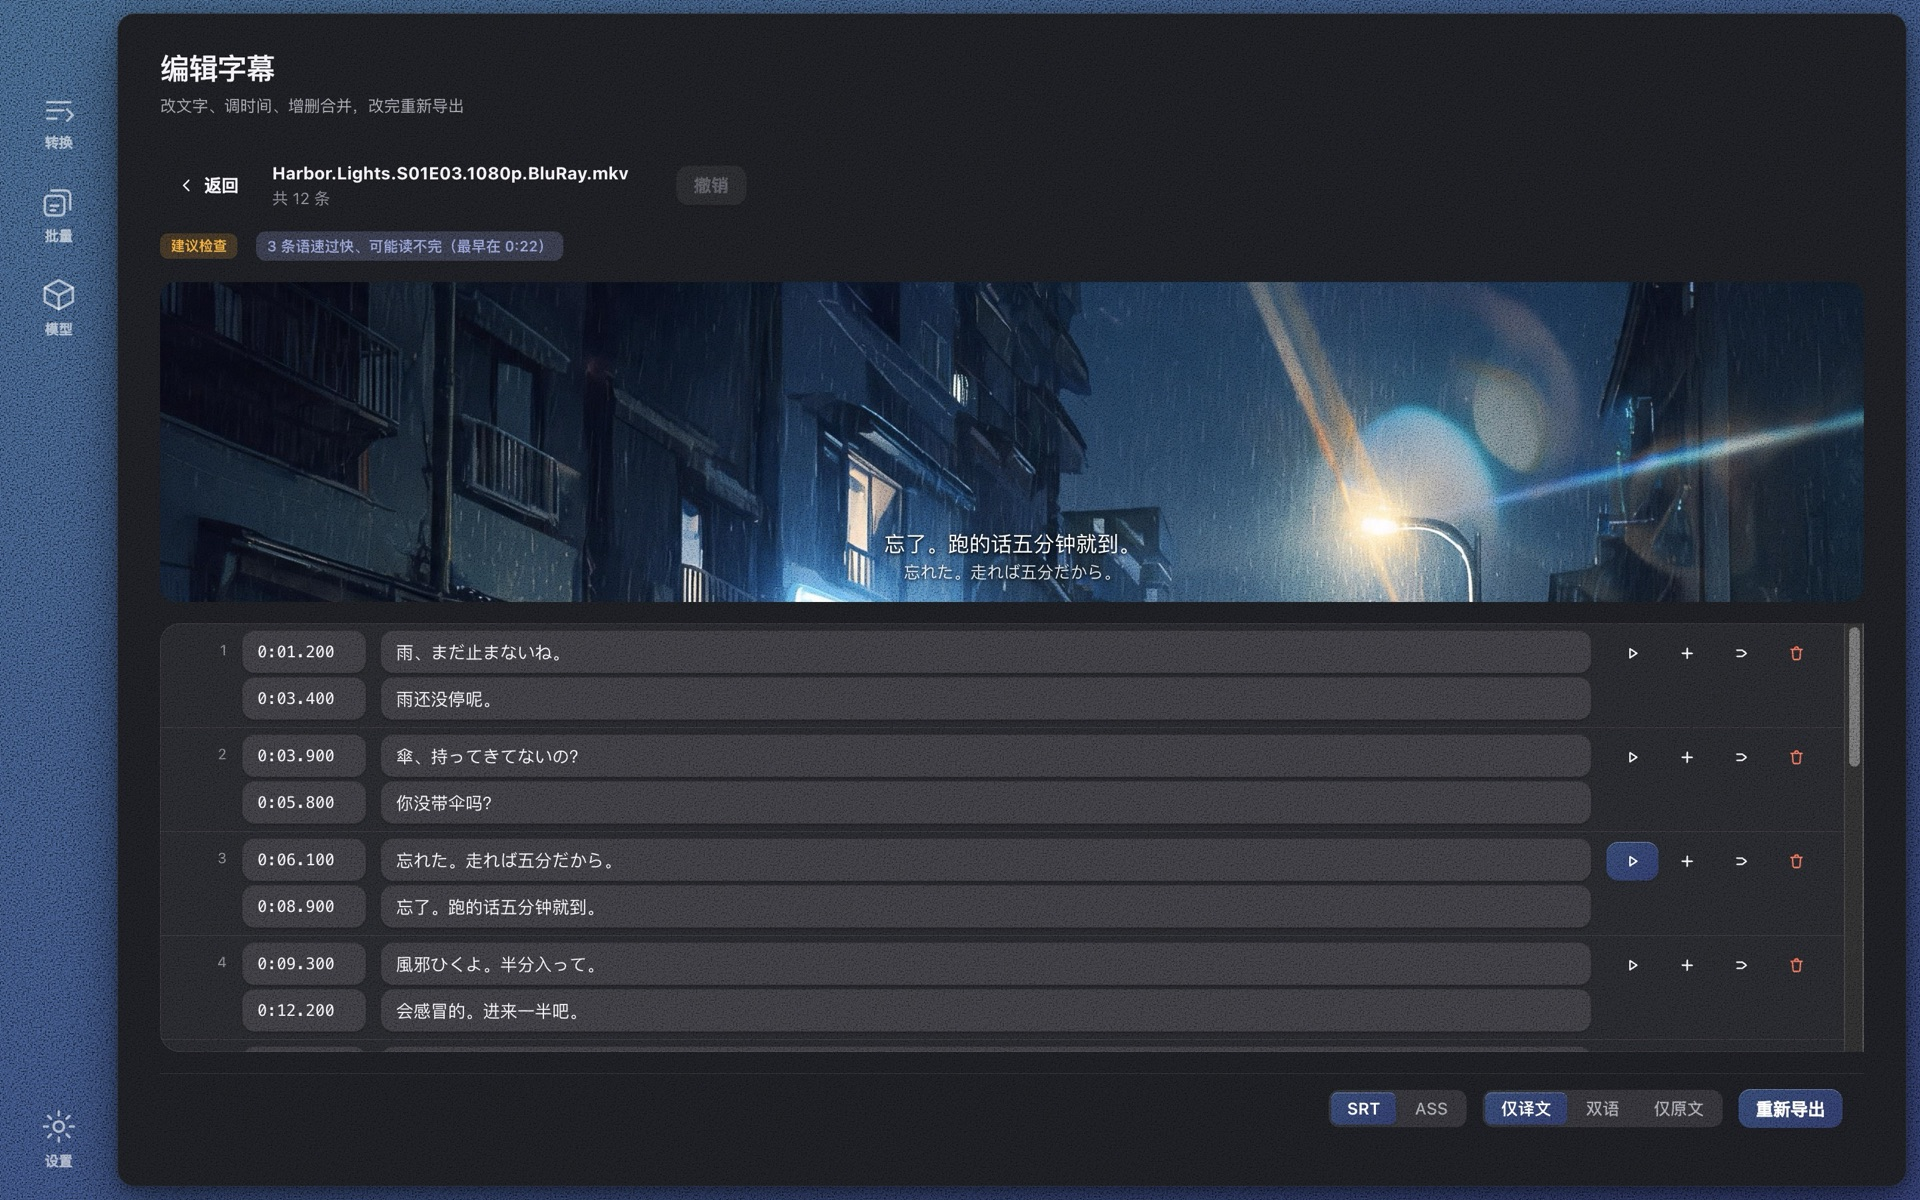
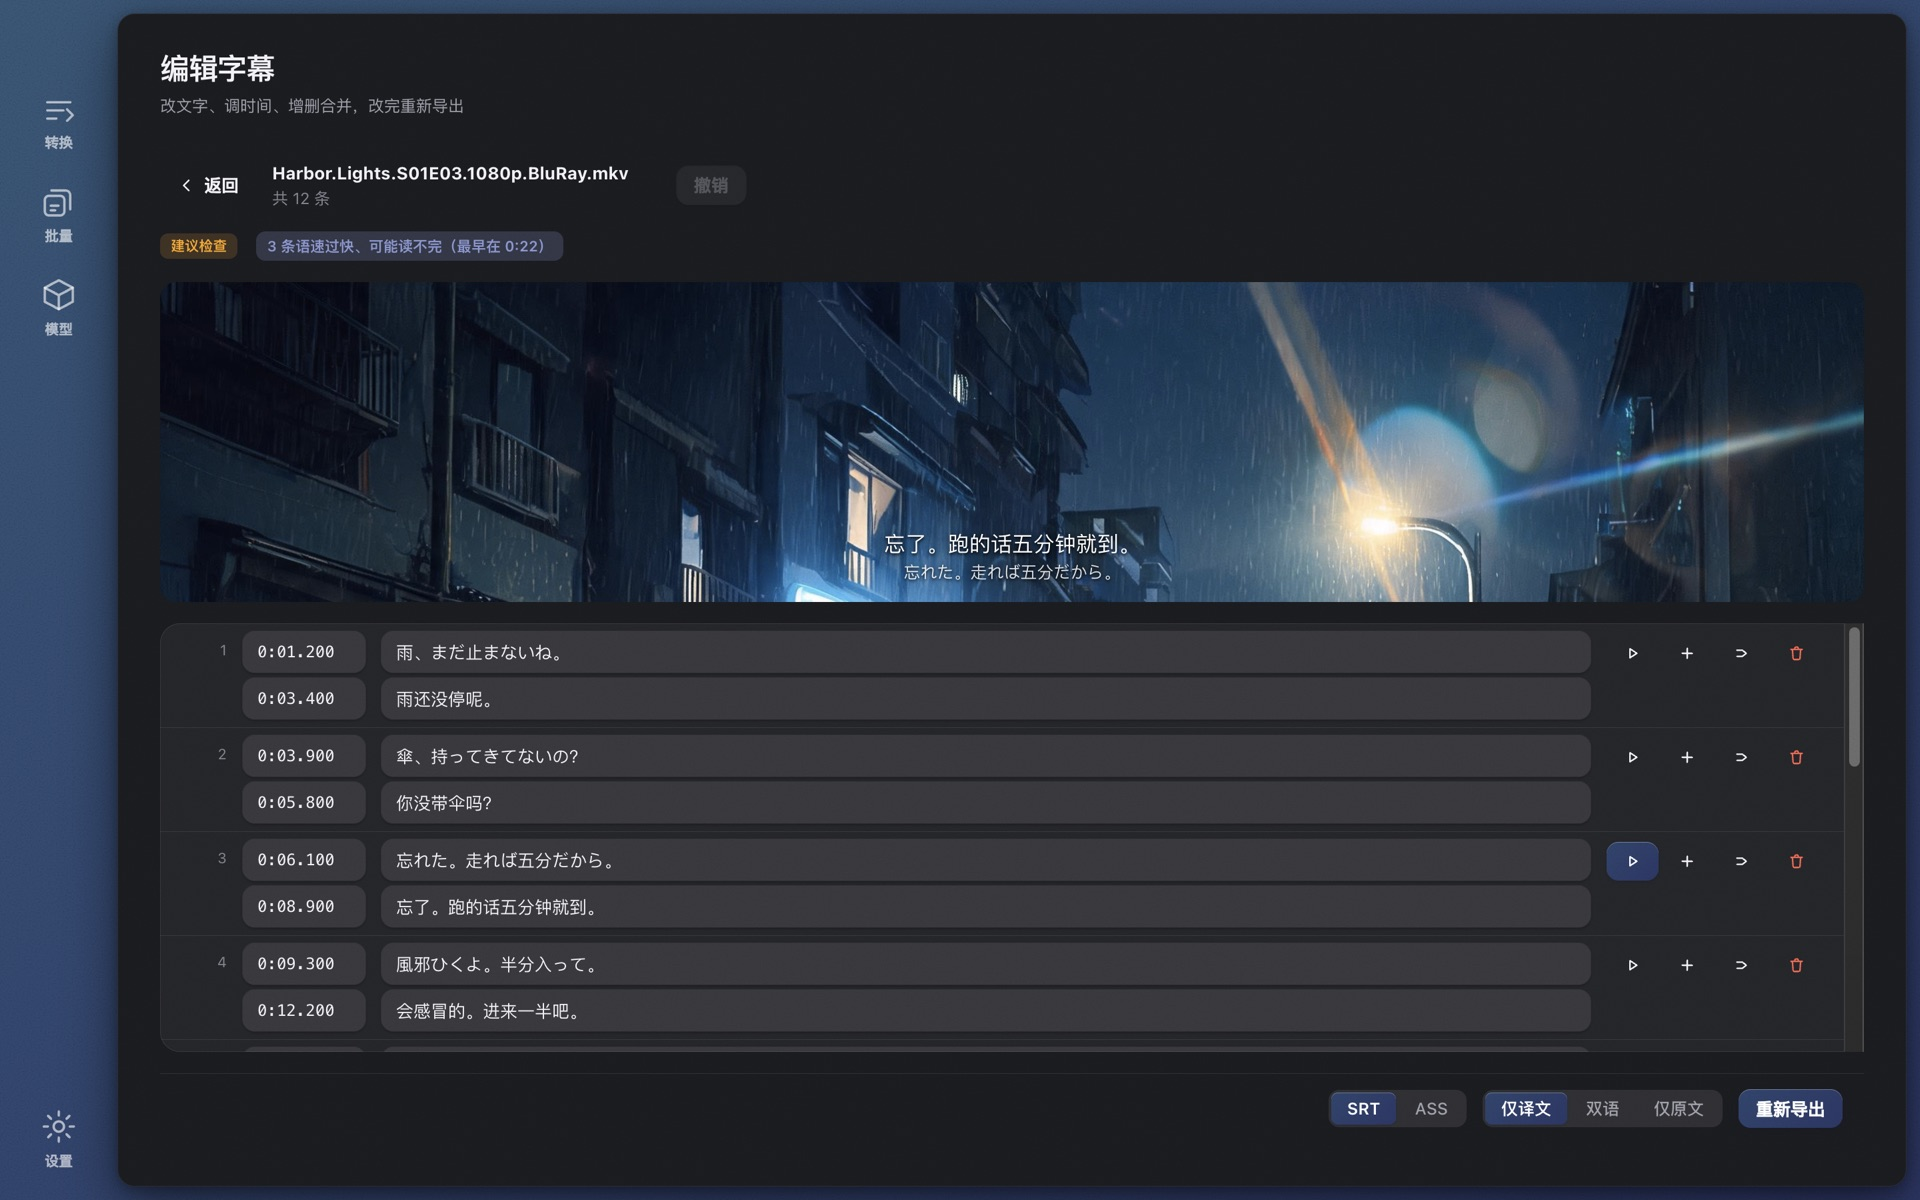
1.0.1：颗粒默认 0.1 并迁移旧默认；截图脚本支持 11 种语言与翻译模型页；截图不再入库

diff --git a/src/main/settings.ts b/src/main/settings.ts
@@ -14,7 +14,7 @@ import type {
   TranslationEngine
 } from '../shared/types'
 import type { Translate } from '../shared/i18n'
-import { DEFAULT_THEME, type ThemeSetting } from '../shared/palettes'
+import { DEFAULT_THEME, LEGACY_DEFAULT_GRAIN, type ThemeSetting } from '../shared/palettes'
 import { pickLocale, translatorFor } from '../shared/i18n'
 import { normalizeBaseUrl } from './core/translate/openaiCompatible'
 import { normalizeAnthropicBaseUrl } from './core/translate/anthropic'
@@ -49,6 +49,8 @@ function normalizeUrlFor(protocol: CloudProtocol, raw: string): string {
 interface StoredSettings {
   appearance: Appearance
   theme: ThemeSetting
+  /** 颗粒默认值的版本：1 = 0.5（1.0.0），2 = 0.1（1.0.1 起）。用来只迁移一次 */
+  grainDefaultRev?: number
   /** 'system' 表示跟随系统语言 */
   language: string
   selectedModel?: string
@@ -66,9 +68,12 @@ interface StoredSettings {
   legacy?: { baseUrl?: string; model?: string; apiKeyEnc?: string }
 }
 
+const GRAIN_DEFAULT_REV = 2
+
 const DEFAULTS: StoredSettings = {
   appearance: 'system',
   theme: { ...DEFAULT_THEME },
+  grainDefaultRev: GRAIN_DEFAULT_REV,
   language: 'system',
   translateEnabled: false,
   translation: {
@@ -87,6 +92,12 @@ export class SettingsStore {
   constructor() {
     this.path = join(app.getPath('userData'), 'settings.json')
     this.data = this.load()
+    const migrated = migrateGrain({ ...DEFAULT_THEME, ...this.data.theme }, this.data.grainDefaultRev)
+    if (migrated.grain !== this.data.theme?.grain || this.data.grainDefaultRev !== GRAIN_DEFAULT_REV) {
+      this.data.theme = migrated
+      this.data.grainDefaultRev = GRAIN_DEFAULT_REV
+      this.save()
+    }
     // 迁移过就立刻落盘，免得旧字段一直残留、下次启动重复迁移
     if (this.migrated) this.save()
   }
@@ -330,6 +341,18 @@ function guessProviderName(baseUrl: string): string {
   if (host.includes('qingcloud')) return '青云'
   if (host.includes('localhost') || host.includes('127.0.0.1')) return '本机服务'
   return host || '未命名服务'
+}
+
+/**
+ * 1.0.0 把颗粒默认成 0.5，用户装上就会把 0.5 写进设置文件。1.0.1 想把默认降到 0.1，
+ * 但设置里已经有值了，普通的「缺省补齐」碰不到它。只在文件仍是旧版本号、且值恰好
+ * 等于旧默认时改——手动调过的（不等于 0.5）一律不动。
+ */
+function migrateGrain(theme: ThemeSetting, rev: number | undefined): ThemeSetting {
+  if ((rev ?? 1) < GRAIN_DEFAULT_REV && theme.grain === LEGACY_DEFAULT_GRAIN) {
+    return { ...theme, grain: DEFAULT_THEME.grain }
+  }
+  return theme
 }
 
 const GLOSSARY_MAX_ENTRIES = 200

diff --git a/src/shared/palettes.ts b/src/shared/palettes.ts
@@ -131,9 +131,13 @@ export interface ThemeSetting {
   intensity: number
 }
 
+/** 1.0.0 的默认颗粒；1.0.1 起降到 0.1，存着旧默认值且从没调过的用户会被迁移到新值 */
+export const LEGACY_DEFAULT_GRAIN = 0.5
+
 export const DEFAULT_THEME: ThemeSetting = {
   paletteId: DEFAULT_PALETTE,
-  grain: 0.5,
+  // 只要够压住大面积渐变的色带就行；0.5 在截图里已经是明显的磨砂感
+  grain: 0.1,
   intensity: 1
 }
 

diff --git a/src/renderer/src/App.css b/src/renderer/src/App.css
@@ -38,7 +38,7 @@
   --grad-2: #AEC7E0;
   --grad-3: #9AA2D6;
   --grad-angle: 155deg;
-  --grain: 0.5;
+  --grain: 0.1;
 
   /* —— 浅色 —— */
   /* 以下三个只是首帧的兜底值，运行时由 theme.ts 按当前配色算好覆盖掉。

diff --git a/CHANGELOG.md b/CHANGELOG.md
@@ -1,5 +1,12 @@
 # 更新日志
 
+## 1.0.1 — 2026-09-06
+
+- 界面颗粒纹理默认强度从 0.5 降到 0.1：大面积渐变仍不出色带，但不再有明显的磨砂感。
+  已装用户若从未调过这一项，会自动改为新默认；手动调过的保持不变
+- 修复颗粒纹理在正式版里被内容安全策略拦截、从未真正渲染的问题（1.0.0 已含）
+- 沙盒环境下源目录不可写时，字幕自动写到「影片/Wave Subs」并在界面提示（App Store 版）
+
 ## 1.0.0 — 2026-09-06
 
 首个公开版本。此前以工作代号 SubFlow 内部使用。
